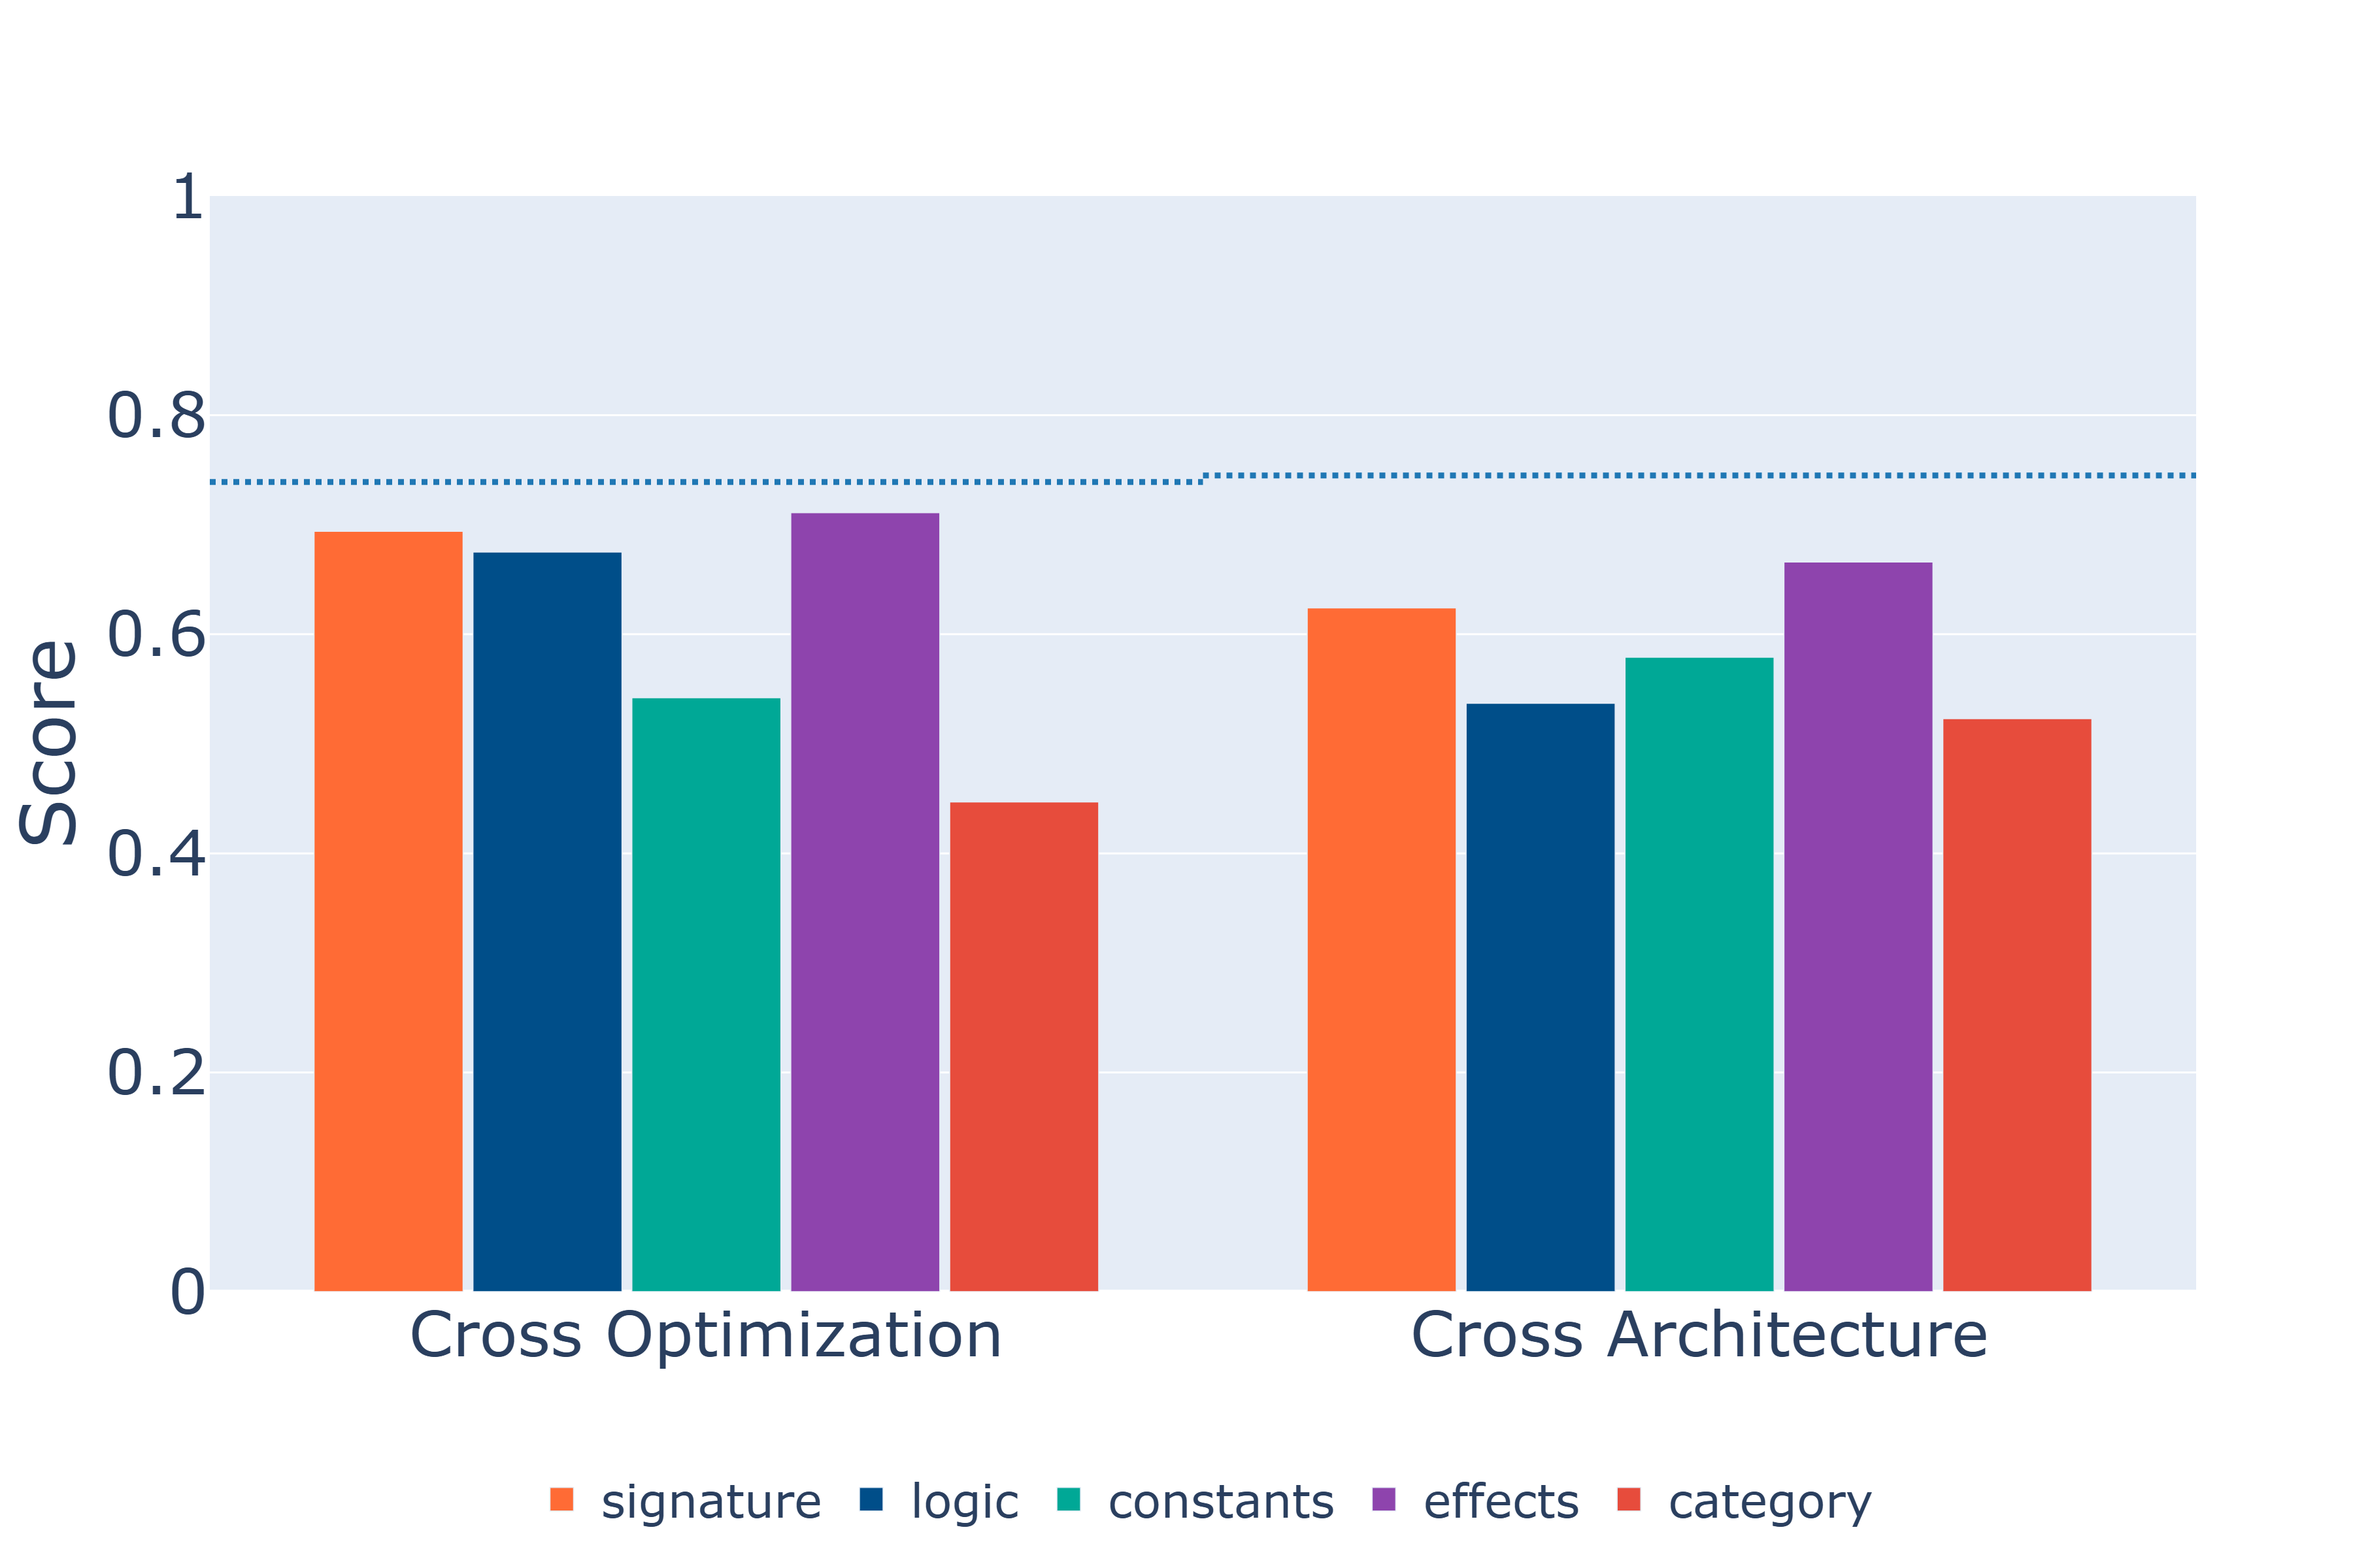
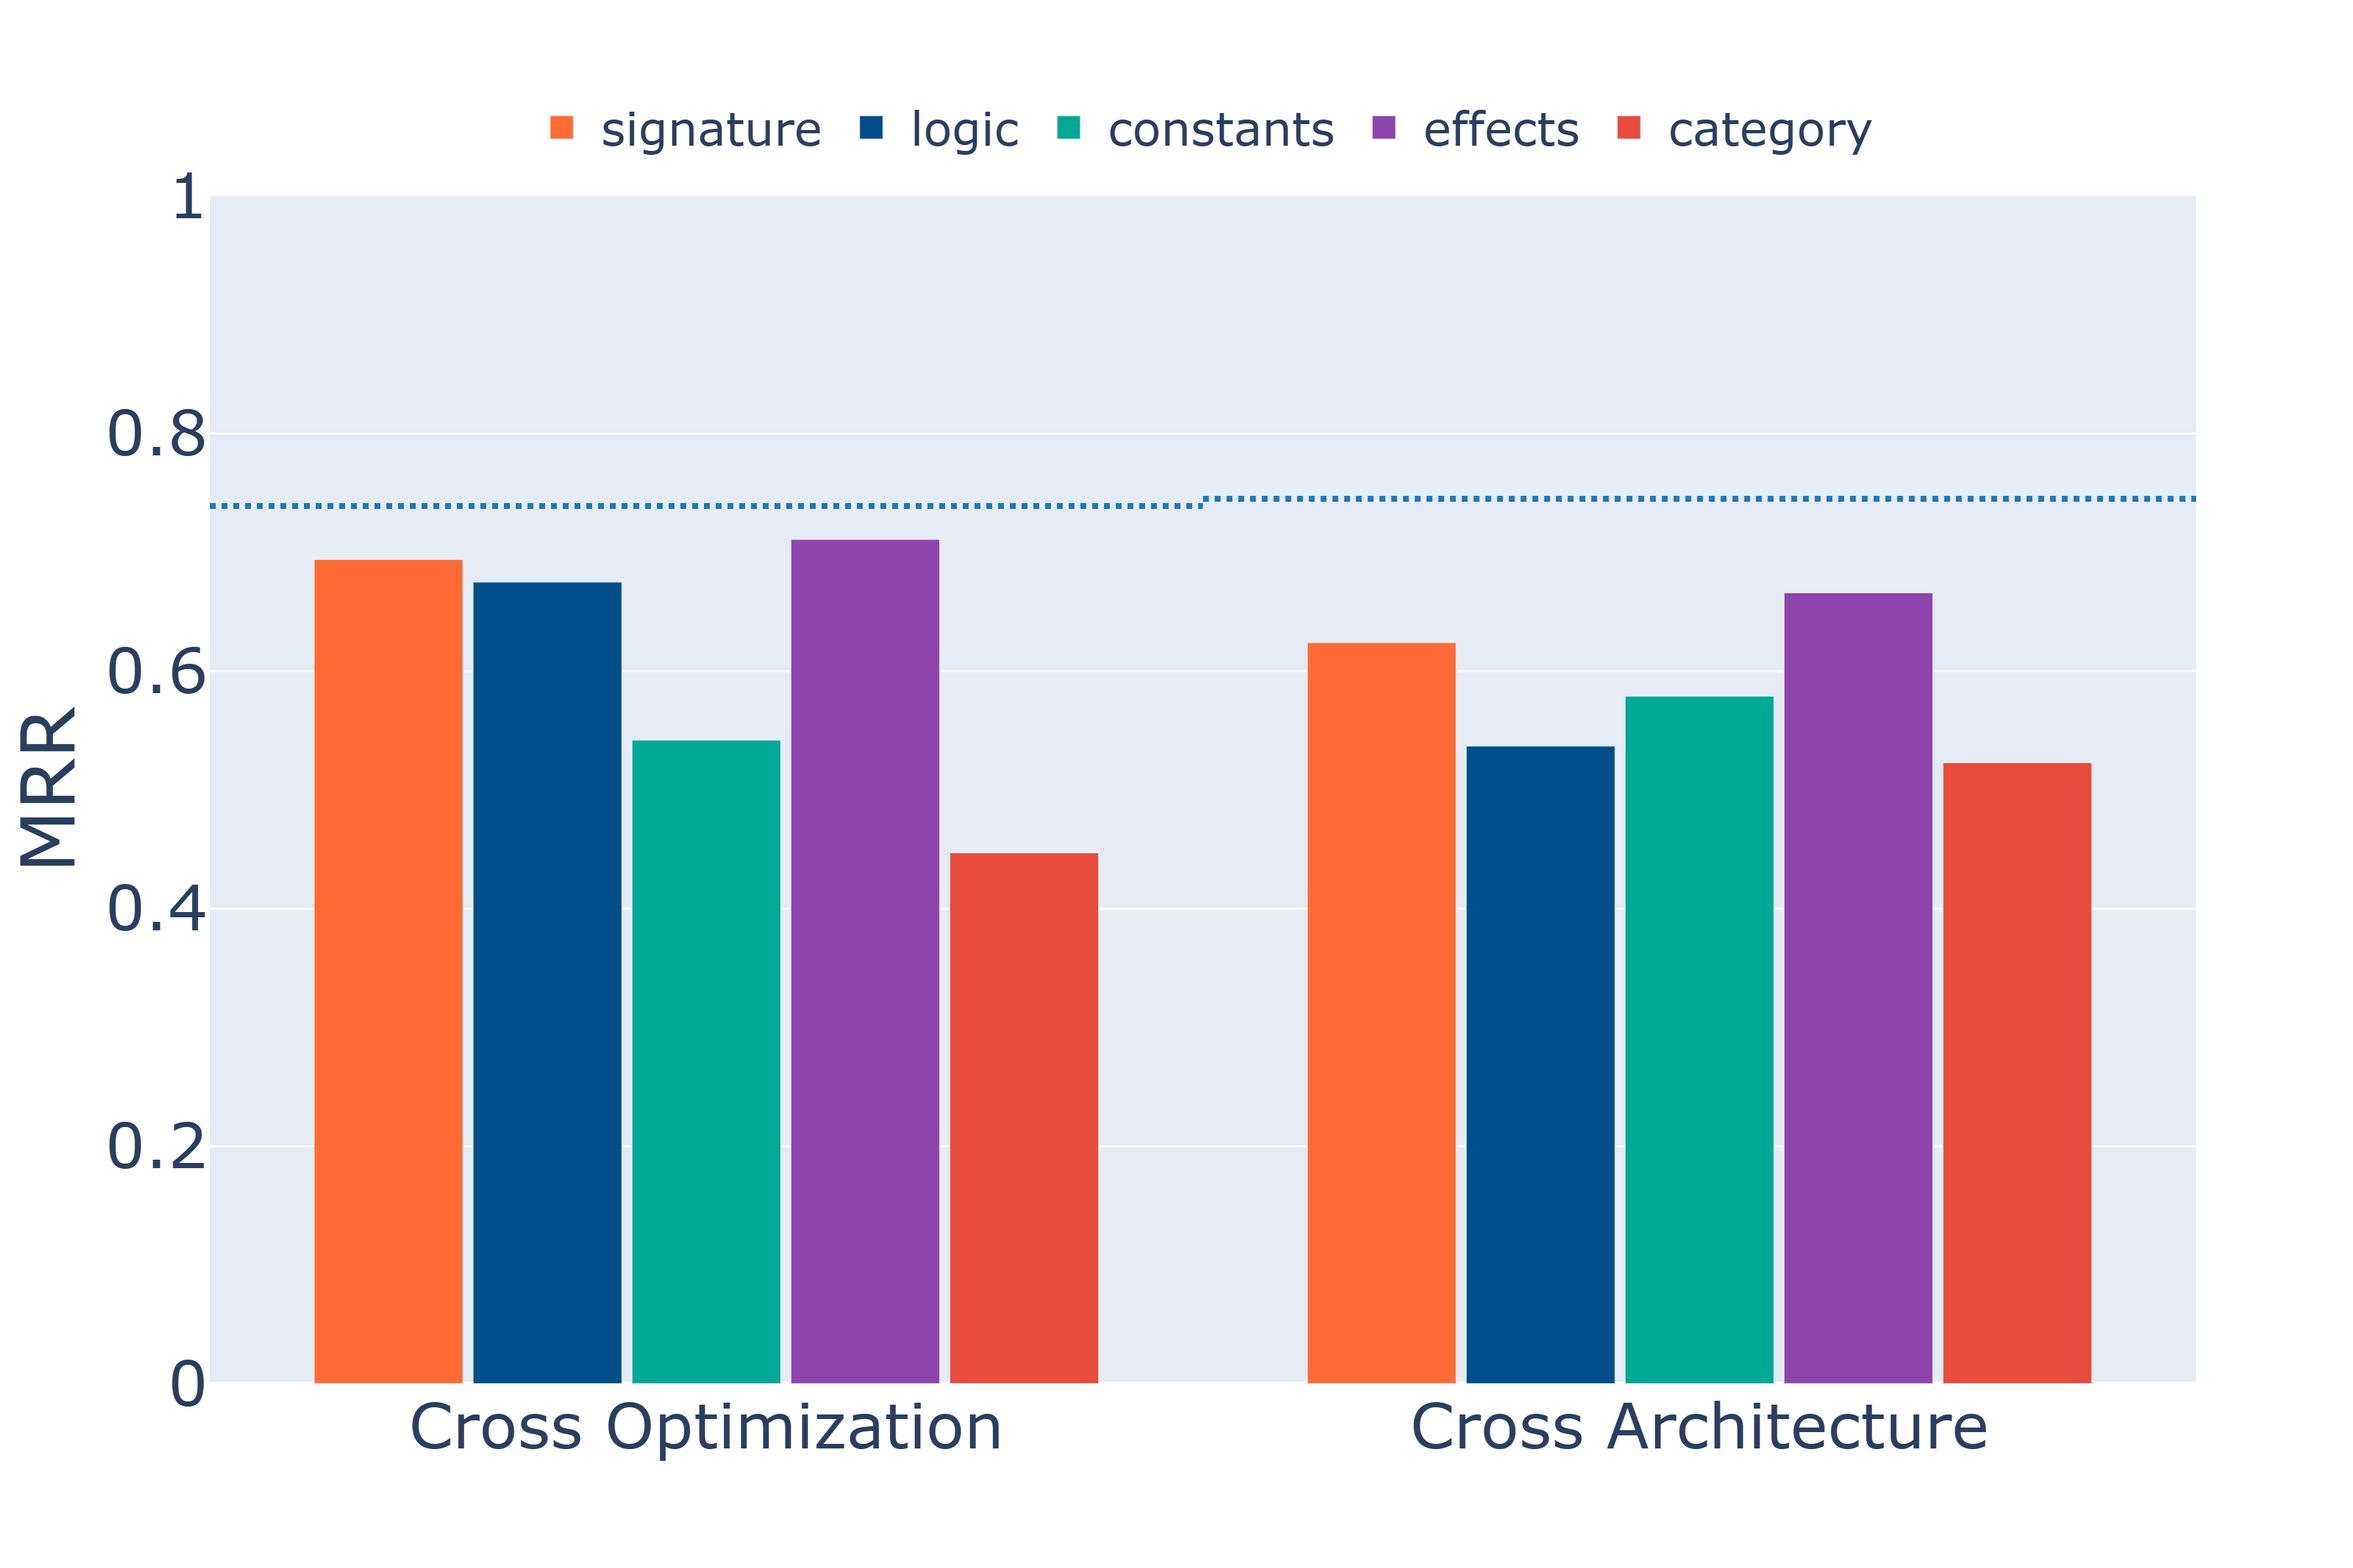
changes

diff --git a/graphs/prompt-ablation.py b/graphs/prompt-ablation.py
@@ -63,8 +63,8 @@ fig.update_layout(
     legend=dict(
         font=dict(size=24),
         orientation="h", 
-        yanchor="top", 
-        y=-0.15, 
+        yanchor="bottom", 
+        y=1.02, 
         xanchor="center", 
         x=0.5
     )
